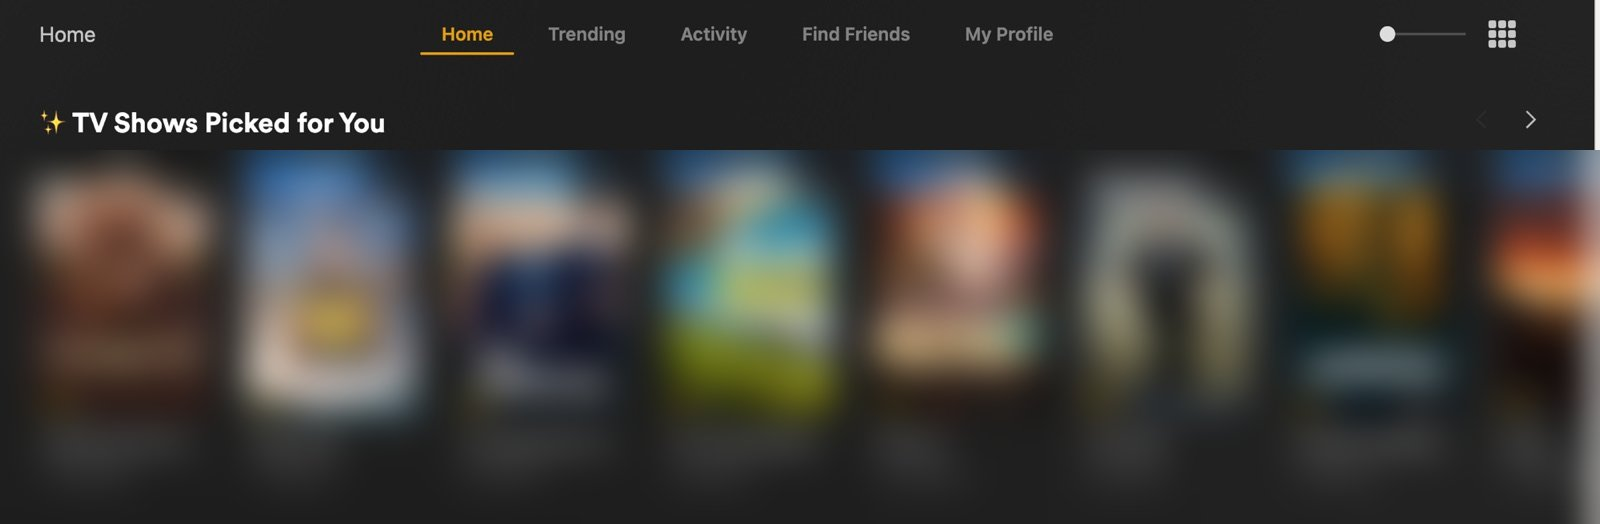
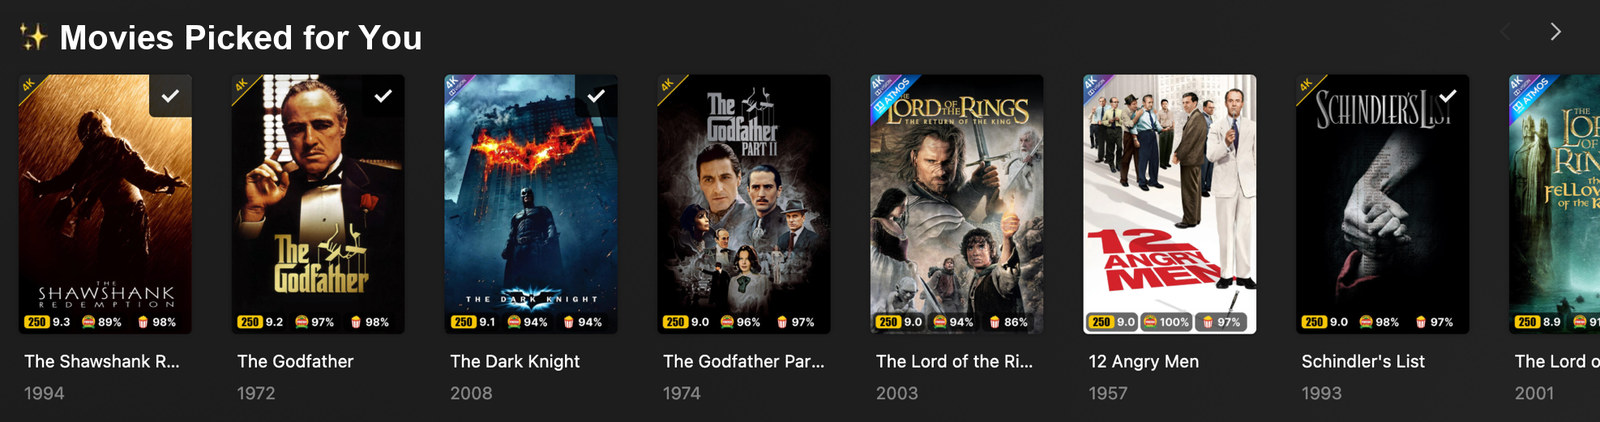
docs: replace the blurred hero with real posters, retitled "Movies Picked for You"
The old shot had every poster blurred, which reads as "we can't show you what
this actually looks like" on the one image people see before deciding whether to
try it. Nothing was being hidden for a good reason — it was just a row of shows
that didn't make a good advert.

This is the IMDb Top 250 collection, retitled to "✨ Movies Picked for You", so
the posters are recognisable and the picks are obviously good. The sparkle is
lifted pixel-for-pixel from the old image rather than re-rendered, so it is the
same glyph Plex actually draws.

The captions no longer say "Home" or "live". The row genuinely does go on Plex
Home and is genuinely built per person — but this particular screenshot is a
library collection view, and a caption should not claim more than its image
shows. Everything the captions still say is true of the picture.

Dimensions changed 1600x524 -> 1600x422, so the `height` attribute moved with it
(it is there to reserve space and prevent layout shift; a stale one causes the
jump it exists to avoid).

Claude-Session: https://claude.ai/code/session_01FhFGcrxGBHfs3zRLP5sdKn

diff --git a/docs/_layouts/home.html b/docs/_layouts/home.html
@@ -52,11 +52,11 @@ privacy section and nowhere else, because they used to be on the page twice.
 
       <figure class="hero__shot">
         <div class="frame">
-          <img src="{{ '/images/plex-picked-for-you.jpg' | relative_url }}" width="1600" height="524"
-               alt="A TV Shows Picked for You row on a Plex home screen, filled with show posters">
+          <img src="{{ '/images/plex-picked-for-you.jpg' | relative_url }}" width="1600" height="422"
+               alt="A Movies Picked for You row on Plex, filled with film posters">
         </div>
         <figcaption>
-          A real &ldquo;Picked for You&rdquo; row on Plex Home, private to that user and built from what they watched.
+          A &ldquo;Picked for You&rdquo; row on Plex &mdash; private to that user, and built from what they watched.
         </figcaption>
       </figure>
     </div>

diff --git a/README.md b/README.md
@@ -33,9 +33,9 @@ per-user recommendations, self-hosted on your own server. It's **private**: each
 their own row, nobody else's. It refreshes automatically. It turns your library into something
 everyone can actually discover from.
 
-![A "TV Shows Picked for You" row on Plex Home](docs/images/plex-picked-for-you.jpg)
+![A "Movies Picked for You" row on Plex](docs/images/plex-picked-for-you.jpg)
 
-<sub>A live "Picked for You" row on Plex Home — private to that user, built from their watch history.</sub>
+<sub>A "Picked for You" row on Plex — private to that user, built from their watch history.</sub>
 
 ## Why this couldn't exist before 2026
 
